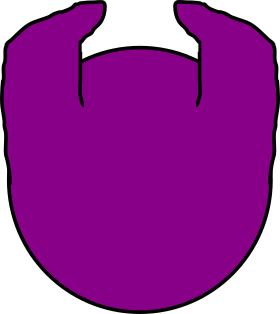
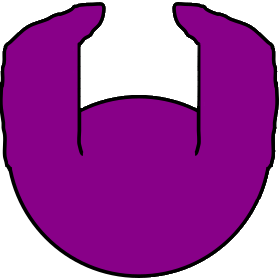
Visuals: An attempt at cleaner hero shapes

Changed region(s): [[0.0, 0.0, 1.0, 1.0]]

diff --git a/src/client/ui/TutorialOverlay.ts b/src/client/ui/TutorialOverlay.ts
@@ -193,7 +193,7 @@ export class TutorialOverlay {
         
         // Draw hero image
         const heroVisual = this.scene.add.image(heroVisualizationX, heroVisualizationY, 'hero-base');
-        heroVisual.setDisplaySize(40, 40);
+        heroVisual.setScale(40 / heroVisual.width); // Scale proportionally based on width
         this.contentContainer.add(heroVisual);
         
         // Add "Your Hero" label beneath the hero
@@ -239,7 +239,7 @@ export class TutorialOverlay {
         for (const entity of minionData) {
             // Entity image
             const entityImage = this.scene.add.image(entitiesStartX, minionY, entity.key);
-            entityImage.setDisplaySize(entity.size, entity.size);
+            entityImage.setScale(entity.size / entityImage.width); // Scale proportionally
             this.contentContainer.add(entityImage);
             
             // Entity label
@@ -274,6 +274,7 @@ export class TutorialOverlay {
         for (const entity of structureData) {
             // Entity image
             const entityImage = this.scene.add.image(structuresStartX, structureY, entity.key);
+            // Both structures get squashed to square
             entityImage.setDisplaySize(entity.size, entity.size);
             this.contentContainer.add(entityImage);
             
@@ -326,7 +327,7 @@ export class TutorialOverlay {
             // Hero image
             const heroKey = hero.type === 'default' ? 'hero-base' : `hero-${hero.type}`;
             const heroImage = this.scene.add.image(x, y, heroKey);
-            heroImage.setDisplaySize(heroIconSize, heroIconSize);
+            heroImage.setScale(heroIconSize / heroImage.width); // Scale proportionally
             // No tint - show original sprite colors (team colors are applied via shaders in-game)
             this.contentContainer.add(heroImage);
             
@@ -388,7 +389,7 @@ export class TutorialOverlay {
         const pyroIconY = currentY + 50;
         
         const pyroIcon = this.scene.add.image(pyroIconX, pyroIconY, 'pyromancer-icon');
-        pyroIcon.setDisplaySize(100, 100);
+        pyroIcon.setScale(100 / pyroIcon.width); // Scale proportionally
         this.contentContainer.add(pyroIcon);
     }
 

diff --git a/src/GameConfig.ts b/src/GameConfig.ts
@@ -37,7 +37,7 @@ export const GAMEPLAY_CONFIG = {
     },
 
     COMBAT: {
-        COLLISION_THRESHOLD_MULTIPLIER: 0.9, // 90% threshold for collision detection
+        COLLISION_THRESHOLD_MULTIPLIER: 1.1, // 100% threshold for collision detection
         HERO: {
             HEALTH: 75,
             ATTACK_RADIUS: 50,
